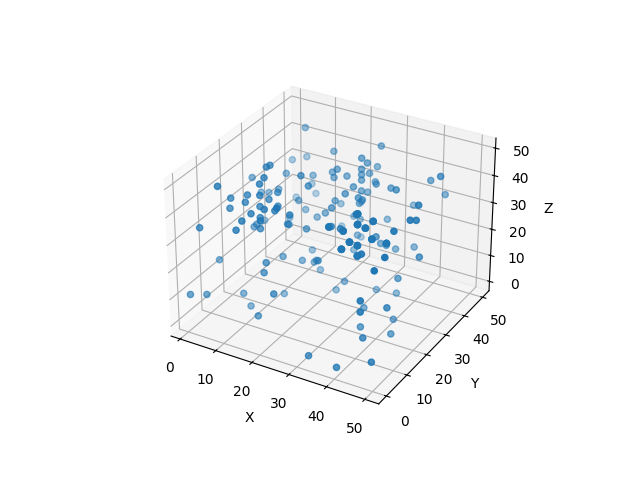
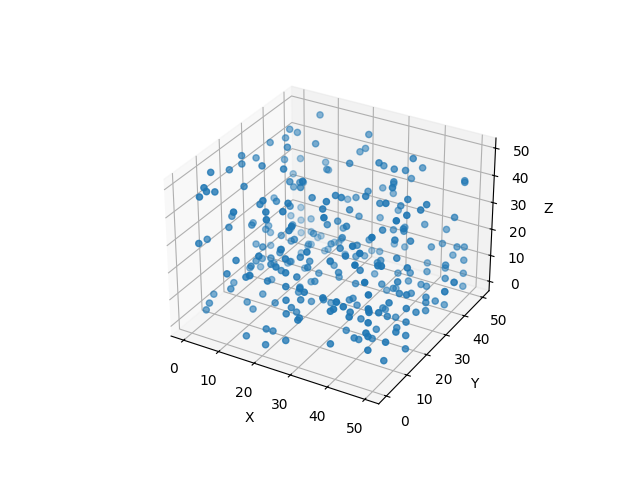
update

diff --git a/code/main.py b/code/main.py
@@ -9,41 +9,49 @@ import numpy as np
 
 
 def solve(failure_lx, path: str):
-    solver_settings = hj.SolverSettings.with_accuracy(
-        "very_high", hamiltonian_postprocessor=hj.solver.backwards_reachable_tube
-    )
-    # Time
-    time = 0.0
-    target_time = -2.8
+    # solver_settings = hj.SolverSettings.with_accuracy(
+    #     "very_high", hamiltonian_postprocessor=hj.solver.backwards_reachable_tube
+    # )
+    # # Time
+    # time = 0.0
+    # target_time = -2.8
 
-    # Run the solver
-    target_values = hj.step(
-        solver_settings, dyn_sys, grid, time, failure_lx, target_time
-    )
+    # # Run the solver
+    # target_values = hj.step(
+    #     solver_settings, dyn_sys, grid, time, failure_lx, target_time
+    # )
 
     if not os.path.exists(path):
         os.makedirs(path)
 
     plt.clf()
+    plt.title("Failure Set (0th slice)")
+    plt.imshow(failure_lx[:, :, 0].T > 0, origin="lower")
+    plt.colorbar()
+    plt.savefig(os.path.join(path, "failure_set0.png"))
+
+    plt.clf()
+    plt.title("falure lx value (0th slice)")
+    plt.imshow(failure_lx[:, :, 0].T, origin="lower")
+    plt.colorbar()
+    plt.savefig(os.path.join(path, "failure_lx0.png"))
+
+    plt.clf()
     plt.title("Failure Set (25th slice)")
     plt.imshow(failure_lx[:, :, 25].T > 0, origin="lower")
     plt.colorbar()
-    plt.savefig(os.path.join(path, "failure_set.png"))
-
-    plt.clf()
-    plt.title("Target Set (25th slice)")
-    plt.imshow(target_values[:, :, 25].T > 0, origin="lower")
-    plt.colorbar()
-    plt.savefig(os.path.join(path, "target_set.png"))
+    plt.savefig(os.path.join(path, "failure_set25.png"))
 
     plt.clf()
     plt.title("falure lx value (25th slice)")
     plt.imshow(failure_lx[:, :, 25].T, origin="lower")
     plt.colorbar()
-    plt.savefig(os.path.join(path, "failure_lx.png"))
+    plt.savefig(os.path.join(path, "failure_lx25.png"))
 
 
-def eval_difference(golden_lx, sim_lx):
+def eval_difference(golden_lx, sim_lx, path="difference"):
+    if not os.path.exists(path):
+        os.makedirs(path)
     diff = golden_lx - sim_lx
     print(f"Max difference: {diff.max()}")
     print(f"Min difference: {diff.min()}")
@@ -53,20 +61,34 @@ def eval_difference(golden_lx, sim_lx):
     plt.title("Difference (25th slice)")
     plt.imshow(diff[:, :, 25].T, origin="lower")
     plt.colorbar()
-    plt.savefig("difference.png")
+    plt.savefig(os.path.join(path, "difference25.png"))
+    plt.clf()
+    plt.title("Difference (0th slice)")
+    plt.imshow(diff[:, :, 0].T, origin="lower")
+    plt.colorbar()
+    plt.savefig(os.path.join(path, "difference0.png"))
 
 
-def vanilla_sample(golden_lx, noise=0.0, gp_noise_level=1e-2, path="vanilla_sample"):
-    sim_lx = GP(get_random_points(200, golden_lx, noise), gp_noise_level)
+def vanilla_sample(
+    golden_lx, noise=0.0, gp_noise_level=1e-2, path="vanilla_sample", total_points=200
+):
+    sim_lx = GP(get_random_points(total_points, golden_lx, noise), gp_noise_level)
     solve(sim_lx, path)
     total_possible_points = num_cells[0] * num_cells[1] * num_cells[2]
+    print(f"vanilla sample with noise: {noise}, gp_noise_level: {gp_noise_level}")
     print(f"Total possible points: {total_possible_points}")
-    print(f"Percetage of points used: {200/total_possible_points * 100}")
-    eval_difference(golden_lx, sim_lx)
+    print(f"Percetage of points used: {total_points/total_possible_points * 100}")
+    eval_difference(golden_lx, sim_lx, path)
+    print("-" * 50)
 
 
 def active_sampling(
-    golden_lx, noise=0.0, gp_noise_level=1e-2, path="active_sampling", random_prob=0.5
+    golden_lx,
+    noise=0.0,
+    gp_noise_level=1e-2,
+    path="active_sampling",
+    random_prob=0.5,
+    total_points=200,
 ):
     def find_most_discrepant_point(sim_lx, known_points):
         max_diff = 0
@@ -85,7 +107,7 @@ def active_sampling(
         else:
             center = find_most_discrepant_point(sim_lx, known_points)
             res = []
-            for delta in [-8, -4, 4, 8]:
+            for delta in [-10, -5, 5, 10]:
                 x, y, z = center[:3]
                 x += delta
                 if x < 0 or x >= num_cells[0]:
@@ -98,7 +120,7 @@ def active_sampling(
                         golden_lx[x, y, z] + np.random.normal(0, noise * noise),
                     )
                 )
-            for delta in [-8, -4, 4, 8]:
+            for delta in [-10, -5, 5, 10]:
                 x, y, z = center[:3]
                 y += delta
                 if y < 0 or y >= num_cells[1]:
@@ -111,7 +133,7 @@ def active_sampling(
                         golden_lx[x, y, z] + np.random.normal(0, noise * noise),
                     )
                 )
-            for delta in [-8, -4, 4, 8]:
+            for delta in [-10, -5, 5, 10]:
                 x, y, z = center[:3]
                 z += delta
                 if z < 0 or z >= num_cells[2]:
@@ -126,13 +148,13 @@ def active_sampling(
                 )
             return res
 
-    known_points = get_random_points(30, golden_lx, noise)
+    known_points = get_random_points(80, golden_lx, noise)
     sim_lx = GP(known_points, gp_noise_level)
-    eval_difference(golden_lx, sim_lx)
-    while len(known_points) < 200:
+    while len(known_points) < total_points:
         known_points.extend(add_new_points(sim_lx, known_points))
         sim_lx = GP(known_points, gp_noise_level)
-        eval_difference(golden_lx, sim_lx)
+    print(f"active sampling with noise: {noise}, gp_noise_level: {gp_noise_level}")
+    eval_difference(golden_lx, sim_lx, path)
     print(f"number of points used: {len(known_points)}")
     print(
         f"Percentage of points used: {len(known_points)/(num_cells[0] * num_cells[1] * num_cells[2]) * 100}"
@@ -150,7 +172,7 @@ def active_sampling(
     ax.set_ylabel("Y")
     ax.set_zlabel("Z")
     plt.savefig(os.path.join(path, "point_distribution.png"))
-    plt.show()
+    print("-" * 50)
 
 
 def main():
@@ -162,27 +184,105 @@ def main():
         gp_noise_level=1e-2,
         path="active_sampling_1e-2_1e-2",
         random_prob=0.5,
+        total_points=300,
     )
-    # vanilla_sample(
-    #     golden_lx, noise=1e-7, gp_noise_level=1e-7, path="vanilla_sample_1e-7_1e-7"
-    # )
-    # vanilla_sample(
-    #     golden_lx, noise=1e-4, gp_noise_level=1e-4, path="vanilla_sample_1e-4_1e-4"
-    # )
-    # vanilla_sample(
-    #     golden_lx, noise=1e-2, gp_noise_level=1e-2, path="vanilla_sample_1e-2_1e-2"
-    # )
-    # vanilla_sample(
-    #     golden_lx, noise=1e-1, gp_noise_level=1e-1, path="vanilla_sample_1e-1_1e-1"
-    # )
-    # vanilla_sample(golden_lx, noise=1, gp_noise_level=1, path="vanilla_sample_1_1")
+    active_sampling(
+        golden_lx,
+        noise=1e-1,
+        gp_noise_level=1e-1,
+        path="active_sampling_1e-1_1e-1",
+        random_prob=0.5,
+        total_points=300,
+    )
+    active_sampling(
+        golden_lx,
+        noise=5e-1,
+        gp_noise_level=5e-1,
+        path="active_sampling_5e-1_5e-1",
+        random_prob=0.5,
+        total_points=300,
+    )
+    active_sampling(
+        golden_lx,
+        noise=1e-5,
+        gp_noise_level=1e-5,
+        path="active_sampling_1e-5_1e-5",
+        random_prob=0.5,
+        total_points=300,
+    )
+    active_sampling(
+        golden_lx,
+        noise=1e-7,
+        gp_noise_level=1e-7,
+        path="active_sampling_1e-7_1e-7",
+        random_prob=0.5,
+        total_points=300,
+    )
+    active_sampling(
+        golden_lx,
+        noise=1,
+        gp_noise_level=1,
+        path="active_sampling_1_1",
+        random_prob=0.5,
+        total_points=300,
+    )
+    vanilla_sample(
+        golden_lx,
+        noise=1e-7,
+        gp_noise_level=1e-7,
+        path="vanilla_sample_1e-7_1e-7",
+        total_points=300,
+    )
+    vanilla_sample(
+        golden_lx,
+        noise=1e-4,
+        gp_noise_level=1e-4,
+        path="vanilla_sample_1e-4_1e-4",
+        total_points=300,
+    )
+    vanilla_sample(
+        golden_lx,
+        noise=1e-2,
+        gp_noise_level=1e-2,
+        path="vanilla_sample_1e-2_1e-2",
+        total_points=300,
+    )
+    vanilla_sample(
+        golden_lx,
+        noise=1e-1,
+        gp_noise_level=1e-1,
+        path="vanilla_sample_1e-1_1e-1",
+        total_points=300,
+    )
+    vanilla_sample(
+        golden_lx,
+        noise=1,
+        gp_noise_level=1,
+        path="vanilla_sample_1_1",
+        total_points=300,
+    )
 
-    # vanilla_sample(
-    #     golden_lx, noise=0, gp_noise_level=5e-2, path="vanilla_sample_1_5e-2"
-    # )
-    # vanilla_sample(
-    #     golden_lx, noise=5e-2, gp_noise_level=1e-7, path="vanilla_sample_5e-2_1e-7"
-    # )
+    vanilla_sample(
+        golden_lx,
+        noise=5e-1,
+        gp_noise_level=5e-1,
+        path="vanilla_sample_5e-1_5e-1",
+        total_points=300,
+    )
+    vanilla_sample(
+        golden_lx,
+        noise=0,
+        gp_noise_level=5e-2,
+        path="vanilla_sample_0_5e-2",
+        total_points=300,
+    )
+    vanilla_sample(
+        golden_lx,
+        noise=5e-2,
+        gp_noise_level=1e-7,
+        path="vanilla_sample_5e-2_1e-7",
+        total_points=300,
+    )
 
 
 if __name__ == "__main__":

diff --git a/code/safety_boundaries.py b/code/safety_boundaries.py
@@ -8,15 +8,34 @@ import time
 
 
 def ground_truth_lx():
-    x_c, y_c, radius = -1.0, -1.0, 0.5
-    obstacle1 = (
-        jnp.linalg.norm(np.array([0.0, 1.0]) - grid.states[..., :2], axis=-1) - radius
-    )
-    obstacle2 = (
-        jnp.linalg.norm(np.array([x_c, y_c]) - grid.states[..., :2], axis=-1) - radius
-    )
-    failure_lx = jnp.minimum(obstacle1, obstacle2)
-    return failure_lx
+    class Sinoides:
+        def __init__(self) -> None:
+            self.parameters = [np.random.normal(0, 2) for i in range(14)]
+
+        def f(self, x, y, z):
+            return (
+                np.sin(2 * x * self.parameters[0] + self.parameters[1])
+                + np.sin(2 * y * self.parameters[2] + self.parameters[3])
+                + np.sin(2 * z * self.parameters[4] + self.parameters[5])
+                + np.sin(4.0 * x * y * self.parameters[6] + self.parameters[7])
+                + np.sin(4.0 * y * z * self.parameters[8] + self.parameters[9])
+                + np.sin(4.0 * z * x * self.parameters[10] + self.parameters[11])
+                + np.sin(16.0 * x * y * z * self.parameters[12] + self.parameters[13])
+                + 1
+            )
+
+    func = Sinoides()
+
+    lx = np.zeros(num_cells)
+    for i in range(num_cells[0]):
+        for j in range(num_cells[1]):
+            for k in range(num_cells[2]):
+                lx[i, j, k] = func.f(
+                    (i - num_cells[0] / 2) / num_cells[0],
+                    (j - num_cells[1] / 2) / num_cells[1],
+                    (k - num_cells[2] / 2) / num_cells[2],
+                )
+    return lx
 
 
 def GP(points: List[Tuple[int, int, int, float]], noise_level=1e-2):
@@ -24,20 +43,21 @@ def GP(points: List[Tuple[int, int, int, float]], noise_level=1e-2):
     X = X / np.array(num_cells)
     y = np.array([point[3] for point in points], dtype=np.float32)
     time_0 = time.time()
-    kernel = 1.0 * RBF(length_scale=1.0, length_scale_bounds=(1e-2, 1e3)) + WhiteKernel(
-        noise_level=noise_level, noise_level_bounds=(1e-8, 1e6)
+    kernel = 1.0 * RBF(length_scale=1.0, length_scale_bounds=(1e-5, 1e5)) + WhiteKernel(
+        noise_level=noise_level, noise_level_bounds="fixed"
     )
-    gp = GaussianProcessRegressor(kernel=kernel, n_restarts_optimizer=4)
+
+    gp = GaussianProcessRegressor(kernel=kernel, n_restarts_optimizer=20)
     gp.fit(X, y)
     time_1 = time.time()
-    print(f"Training time: {time_1 - time_0}")
+    # print(f"Training time: {time_1 - time_0}")
 
     # Predict in one go
     preds = gp.predict(grid_np, return_std=False)
 
     # Reshape to 3D grid
     lx = preds.reshape(num_cells)
-    print("time to predict: ", time.time() - time_1)
+    # print("time to predict: ", time.time() - time_1)
     return lx
 
 
